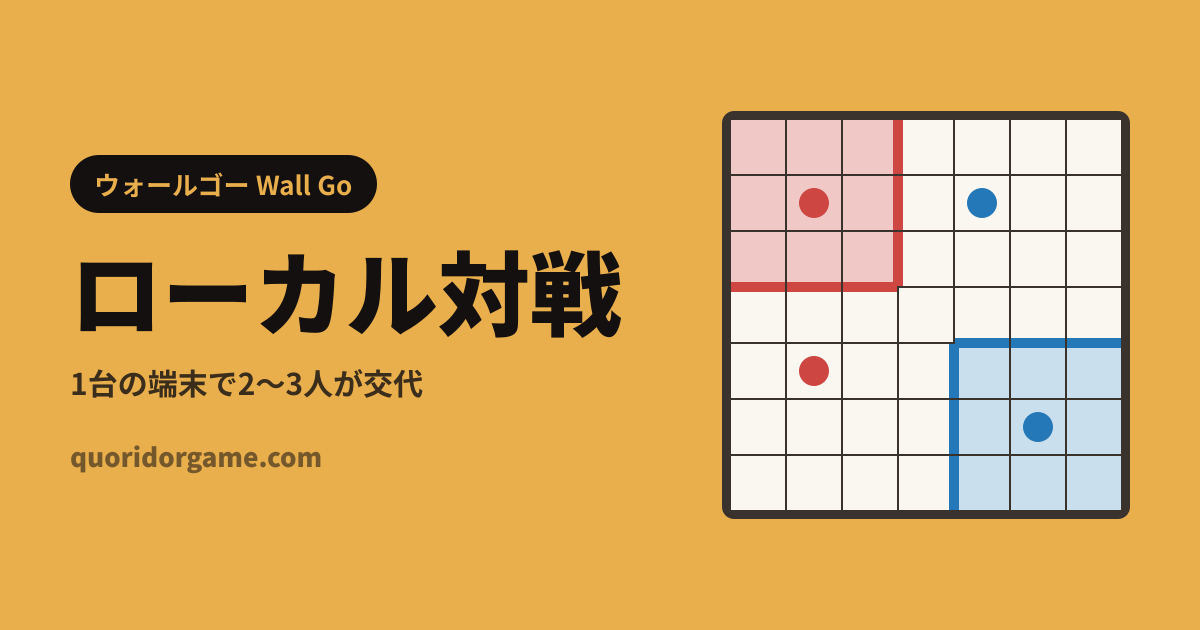
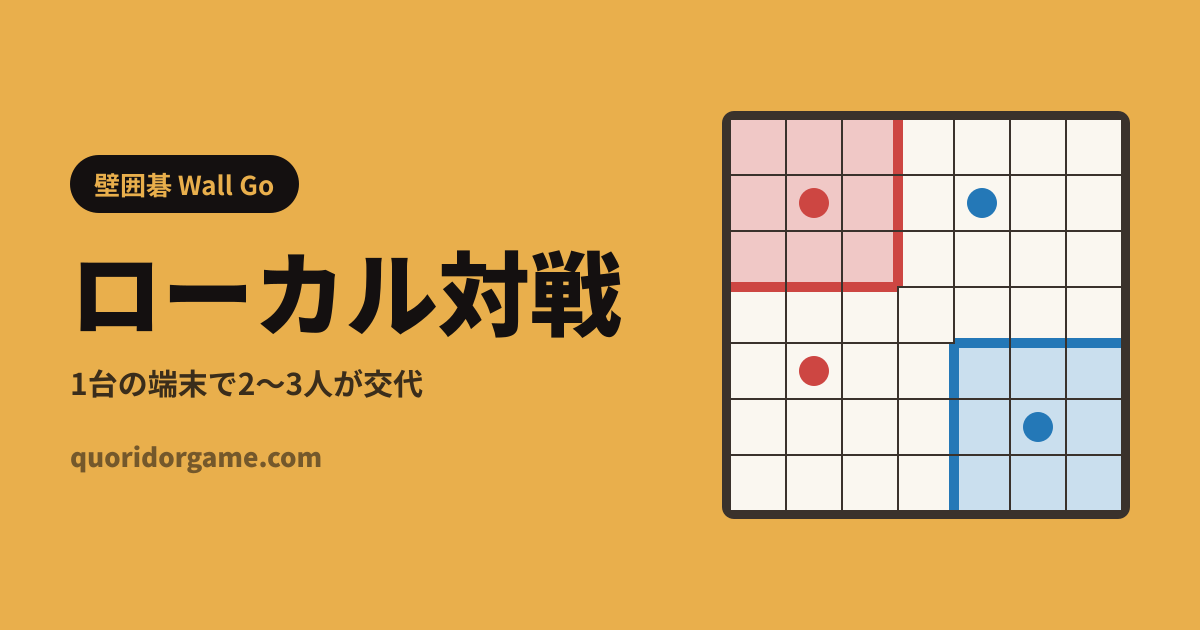
fix(i18n): 日文改用日本觀眾實際搜的名稱：壁囲碁、悪魔の計略
Netflix 日本的官方片名是『悪魔の計略 ～デビルズ・プラン～』（第二季沒有
另取「デスルーム」副標），日文介紹寫這個遊戲也用「壁囲碁」。先前用的
「ウォールゴー」「デビルズプラン：デスルーム」是從英文音譯的，
日本觀眾搜的字對不上 —— 跟當初韓文從「월 고」改成「벽바둑」同一個教訓。

術語表先改，再改 messages、FAQ、遊戲內分享標題；站名（og:site_name）
因此變成「壁囲碁 Wall Go」。「ウォールゴー」留在 keywords 接住少數這樣搜的人。
6 張日文分享圖重建，其他語系的 18 張逐位元組不變。

Claude-Session: https://claude.ai/code/session_01VbfEeJvisc9iRddWhVWALh

Changed region(s): [[0.0617, 0.2413, 0.3392, 0.3619]]

diff --git a/app/i18n/messages/ja.ts b/app/i18n/messages/ja.ts
@@ -1,21 +1,21 @@
 import type { Messages } from './zh-TW';
 
-/** 用詞照 app/i18n/glossary.md：ウォールゴー、壁、陣地、駒。 */
+/** 用詞照 app/i18n/glossary.md：壁囲碁、壁、陣地、駒。 */
 const ja: Messages = {
   meta: {
-    titleDefault: 'ウォールゴー Wall Go 無料オンライン | デビルズプラン：デスルーム',
-    titleTemplate: '%s | ウォールゴー Wall Go',
+    titleDefault: '壁囲碁 Wall Go 無料オンライン | 悪魔の計略 ～デビルズ・プラン～',
+    titleTemplate: '%s | 壁囲碁 Wall Go',
     description:
-      'Netflixの韓国リアリティ番組『デビルズプラン：デスルーム』に登場したウォールゴーを、ブラウザで無料プレイ。7路盤で駒を動かし、壁を作って陣地を囲む。いちばん広い人の勝ち。2〜3人対戦、CPU戦、オンライン対戦に対応。ダウンロードも登録も不要です。',
-    keywords: ['ウォールゴー', 'Wall Go', 'デビルズプラン', 'デスルーム', '囲碁 派生', '陣取りゲーム', 'オンラインボードゲーム'],
-    ogTitle: 'ウォールゴー Wall Go 無料オンライン',
+      'Netflixの韓国リアリティ番組『悪魔の計略 ～デビルズ・プラン～』シーズン2に登場した壁囲碁を、ブラウザで無料プレイ。7路盤で駒を動かし、壁を作って陣地を囲む。いちばん広い人の勝ち。2〜3人対戦、CPU戦、オンライン対戦に対応。ダウンロードも登録も不要です。',
+    keywords: ['壁囲碁', 'Wall Go', '悪魔の計略', 'デビルズ・プラン', 'デビルズプラン シーズン2', 'ウォールゴー', '囲碁 派生', '陣取りゲーム', 'オンラインボードゲーム'],
+    ogTitle: '壁囲碁 Wall Go 無料オンライン',
     ogDescription:
-      '『デビルズプラン：デスルーム』のウォールゴー。7路盤、石ではなく壁で囲む陣取り。ダウンロードも登録も不要。',
-    ogAlt: 'ウォールゴー Wall Go —— 7路盤で赤と青が壁で自分の陣地を囲んでいる様子',
-    showName: 'デビルズプラン：デスルーム',
+      '『悪魔の計略 ～デビルズ・プラン～』の壁囲碁。7路盤、石ではなく壁で囲む陣取り。ダウンロードも登録も不要。',
+    ogAlt: '壁囲碁 Wall Go —— 7路盤で赤と青が壁で自分の陣地を囲んでいる様子',
+    showName: '悪魔の計略 ～デビルズ・プラン～',
   },
   home: {
-    titleLine1: 'ウォールゴー',
+    titleLine1: '壁囲碁',
     titleLine2: 'Wall Go',
     tagline: 'いちばん広い陣地を囲む · 2〜3人対戦',
     localKicker: 'ローカル',
@@ -27,13 +27,13 @@ const ja: Messages = {
   },
   rules: {
     kicker: '遊び方',
-    heading: 'ウォールゴー Wall Go のルール',
+    heading: '壁囲碁 Wall Go のルール',
     intro:
-      'ウォールゴーは Netflix『デビルズプラン：デスルーム』に登場した、囲碁の派生ゲームです。7路盤で2〜3人で遊びます。\n1ターンでやることは2つ。駒を1つ動かして、壁を1枚作る。以下、一手ずつ図で説明します。',
+      '壁囲碁は Netflix『悪魔の計略 ～デビルズ・プラン～』シーズン2に登場した、囲碁の派生ゲームです。7路盤で2〜3人で遊びます。\n1ターンでやることは2つ。駒を1つ動かして、壁を1枚作る。以下、一手ずつ図で説明します。',
     metaTitle: 'ルール',
     metaDescription:
-      'ウォールゴー（Wall Go）の完全ルール：配置、毎ターン0〜2マス動いてから壁を1枚作る、囲まれた領域の陣地計算、3人戦の壁破壊、勝敗の決まり方。Netflix『デビルズプラン：デスルーム』より。',
-    ogTitle: 'ウォールゴー Wall Go の遊び方',
+      '壁囲碁（Wall Go）の完全ルール：配置、毎ターン0〜2マス動いてから壁を1枚作る、囲まれた領域の陣地計算、3人戦の壁破壊、勝敗の決まり方。Netflix『悪魔の計略 ～デビルズ・プラン～』より。',
+    ogTitle: '壁囲碁 Wall Go の遊び方',
     ogDescription: '一手ずつ図でわかる：配置、移動、壁、陣地、得点。',
     faqHeading: 'よくある質問',
     ctaPlay: 'ゲームを始める',
@@ -42,18 +42,18 @@ const ja: Messages = {
   solo: {
     metaTitle: 'ひとりで遊ぶ',
     metaDescription:
-      'ひとりでもウォールゴーが遊べます。CPUは3段階。どのマスにどちらが先に届くかを計算して指すので、ランダムな手は打ちません。ダウンロードも登録も不要。',
-    ogTitle: 'ウォールゴー Wall Go ひとりで遊ぶ',
+      'ひとりでも壁囲碁が遊べます。CPUは3段階。どのマスにどちらが先に届くかを計算して指すので、ランダムな手は打ちません。ダウンロードも登録も不要。',
+    ogTitle: '壁囲碁 Wall Go ひとりで遊ぶ',
     ogDescription: 'ひとりでも遊べます。CPUは3段階。ダウンロードも登録も不要。',
     pickLevel: 'レベルを選ぶ',
     level1: 'レベル1',
     level2: 'レベル2',
     level3: 'レベル3',
-    srHeading: 'ひとりで遊ぶ | ウォールゴー Wall Go',
+    srHeading: 'ひとりで遊ぶ | 壁囲碁 Wall Go',
   },
-  local: { metaTitle: 'ローカル対戦', srHeading: 'ローカル対戦 | ウォールゴー Wall Go' },
-  online: { metaTitle: 'オンライン対戦', srHeading: 'オンライン対戦 | ウォールゴー Wall Go' },
-  replay: { metaTitle: '棋譜再生', metaDescription: '一手ずつ対局を見返せます。前後への移動も自由です。', srHeading: '棋譜再生 | ウォールゴー Wall Go', empty: 'このリンクには棋譜がありません', emptyBody: '再生リンクには棋譜が必要です。完全なリンクをもう一度もらってください。', turn: '{total} 手中 {n} 手目', first: '最初に戻る', prev: '前の手', play: '再生', pause: '一時停止', next: '次の手', last: '最後へ' },
+  local: { metaTitle: 'ローカル対戦', srHeading: 'ローカル対戦 | 壁囲碁 Wall Go' },
+  online: { metaTitle: 'オンライン対戦', srHeading: 'オンライン対戦 | 壁囲碁 Wall Go' },
+  replay: { metaTitle: '棋譜再生', metaDescription: '一手ずつ対局を見返せます。前後への移動も自由です。', srHeading: '棋譜再生 | 壁囲碁 Wall Go', empty: 'このリンクには棋譜がありません', emptyBody: '再生リンクには棋譜が必要です。完全なリンクをもう一度もらってください。', turn: '{total} 手中 {n} 手目', first: '最初に戻る', prev: '前の手', play: '再生', pause: '一時停止', next: '次の手', last: '最後へ' },
   ogImage: {
     home: 'いちばん広い陣地を取る · 2〜3人対戦',
     rules: '配置・移動・壁・囲い・得点',

diff --git a/app/i18n/content/faq.ts b/app/i18n/content/faq.ts
@@ -39,10 +39,10 @@ export const FAQ_TEXT: Record<Locale, FaqItem[]> = {
       a: 'Your turn is skipped automatically. Once all your pieces are sealed inside your own territory and nothing you do can change the result, play passes straight to the next person. When every piece is sealed in, the game ends and scores are counted.' },
   ],
   ja: [
-    { q: 'ウォールゴーと囲碁は何が違うの？',
-      a: 'ウォールゴーは囲碁の派生で、陣地を広げるという目的は同じですが、やり方が違います。囲碁は19路盤で、置いた石は動かず、石のつながりで地を囲みます。ウォールゴーは7路盤で、駒は**毎ターン動き**、地を囲むのは石ではなく壁です。取りもコウもなく、置いた壁は消えません（3人対戦の壁壊しは各自1回だけ）。ルールははるかに少なく、一局はおよそ10分です。' },
-    { q: 'ウォールゴーはどこで登場したの？',
-      a: 'Netflix の『デビルズプラン：デスルーム』に対決種目のひとつとして登場しました。ルールは単純ですが展開が深く、放送後にオンライン版を探す人が増えました。' },
+    { q: '壁囲碁と囲碁は何が違うの？',
+      a: '壁囲碁は囲碁の派生で、陣地を広げるという目的は同じですが、やり方が違います。囲碁は19路盤で、置いた石は動かず、石のつながりで地を囲みます。壁囲碁は7路盤で、駒は**毎ターン動き**、地を囲むのは石ではなく壁です。取りもコウもなく、置いた壁は消えません（3人対戦の壁壊しは各自1回だけ）。ルールははるかに少なく、一局はおよそ10分です。' },
+    { q: '壁囲碁はどこで登場したの？',
+      a: 'Netflix の『悪魔の計略 ～デビルズ・プラン～』シーズン2に、監獄マッチのひとつとして登場しました。ルールは単純ですが展開が深く、放送後にオンライン版を探す人が増えました。' },
     { q: 'ひとりでも遊べる？',
       a: '遊べます。CPU戦が3段階あります。CPUは「どのマスにどちらが先に届くか」（ボロノイ分割）を計算して指すので、ランダムな手は打ちません。' },
     { q: 'ダウンロードや登録は必要？',

diff --git a/app/i18n/content/game.ts b/app/i18n/content/game.ts
@@ -228,7 +228,7 @@ export const GAME_TEXT: Record<Locale, GameText> = {
       failed: '送信できませんでした。通信が切れたのかもしれません。もう一度お試しください。',
     },
     share: {
-      shareTitle: 'ウォールゴー Wall Go', shareText: '部屋を作りました。リンクからそのまま参加できます！',
+      shareTitle: '壁囲碁 Wall Go', shareText: '部屋を作りました。リンクからそのまま参加できます！',
       heading: '友だちを招待', kicker: 'オンライン対戦', copied: 'コピーしました', copyAria: 'リンクをコピー',
       copy: 'コピー', waiting: '待機中', body: 'リンクを友だちに送ると、開いただけでこの部屋に入れます。',
       share: 'リンクを共有',

diff --git a/app/i18n/glossary.md b/app/i18n/glossary.md
@@ -5,8 +5,8 @@
 
 | 概念 | zh-TW | en | ja | ko |
 |---|---|---|---|---|
-| 遊戲名 | 牆壁圍棋 | Wall Go | ウォールゴー | 벽바둑 |
-| 節目名 | 魔鬼的計謀：死亡密室 | The Devil's Plan: Death Room | デビルズプラン：デスルーム | 데블스 플랜: 데스룸 |
+| 遊戲名 | 牆壁圍棋 | Wall Go | 壁囲碁 | 벽바둑 |
+| 節目名 | 魔鬼的計謀：死亡密室 | The Devil's Plan: Death Room | 悪魔の計略 ～デビルズ・プラン～（シーズン2） | 데블스 플랜: 데스룸 |
 | 棋子 | 棋子 | piece | 駒 | 말 |
 | 牆 | 牆 | wall | 壁 | 벽 |
 | 領地／地盤 | 地盤 | territory | 陣地 | 영역 |
@@ -24,6 +24,11 @@
 - **領地在中文用「地盤」**：「領地」書面感重，「地盤」是這個遊戲實際在講的事。
   英文用 territory（圍棋術語的慣例譯法），日文用「陣地」而不是「領地」，
   因為日文圍棋本來就說陣地。
+- **日文遊戲名是「壁囲碁」、節目名是『悪魔の計略 ～デビルズ・プラン～』**，不是音譯「ウォールゴー」
+  與「デビルズプラン：デスルーム」。Netflix 日本的官方片名是『悪魔の計略 ～デビルズ・プラン～』
+  （第二季沒有另取「デスルーム」這個副標），日文介紹寫這個遊戲也用「壁囲碁」。
+  跟韓文同一個教訓：照原文音譯，日本觀眾搜的字對不上。「ウォールゴー」
+  留在 keywords 裡接住少數這樣搜的人。
 - **韓文遊戲名是「벽바둑」**（Wall Baduk），不是音譯「월 고」。
   這點我一開始寫錯了 —— 查證後，韓文語境裡這個遊戲就叫벽바둑，
   搜尋的人打的也是這個。音譯只會搜不到。
